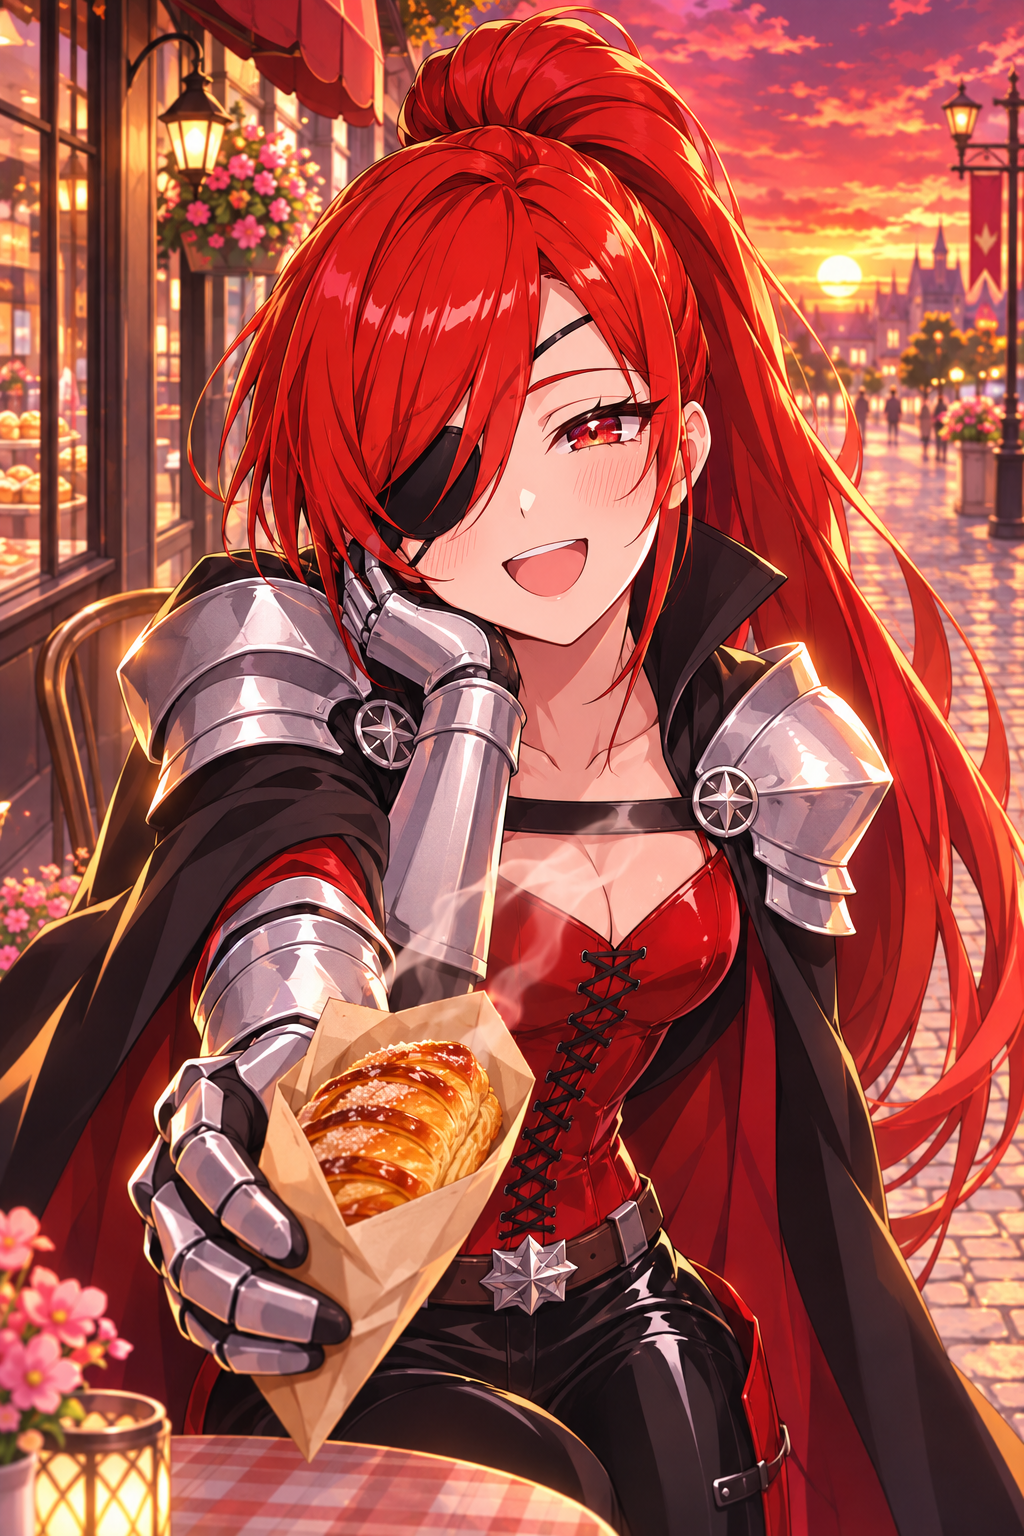
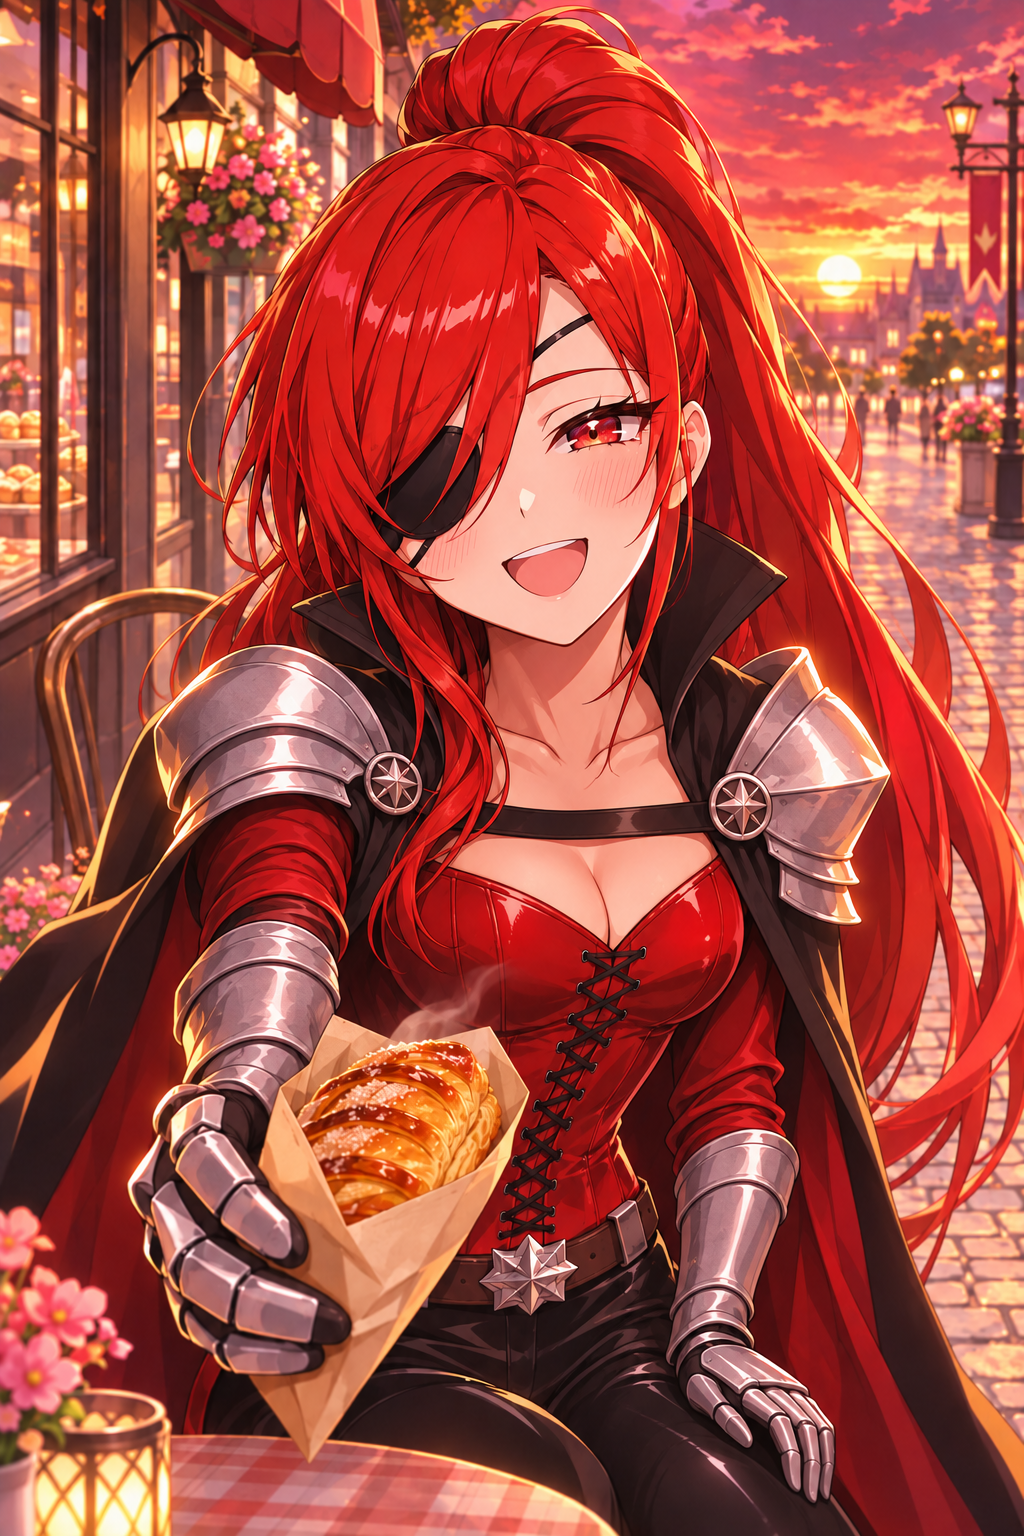
Fix Homura date illustration arm anatomy

diff --git a/comic-exports/eight-swords-mikado-pov-dates-01/README.md b/comic-exports/eight-swords-mikado-pov-dates-01/README.md
@@ -36,3 +36,7 @@
 
 ![ヤミ](08-yami.png)
 
+
+## ホムラの腕の修正（2026年11月15日）
+
+ユーザーから腕の不自然さを指摘され、頬に触れる手と縦の前腕を除去。本人右肩からパンを差し出す右腕、本人左肩から膝へ下ろす左腕に修正しました。顔・本人右眼帯・夕景を維持し、画像生成による編集後に両腕のつながりを目視確認しました。修正前は `previous-versions/01-homura-before-arm-fix.png` に履歴保存しています。
